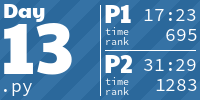
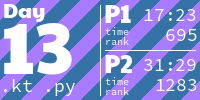
Add day 13

diff --git a/2022/13/13.kt b/2022/13/13.kt
@@ -1,0 +1,45 @@
+fun String.parseLists(): Any {
+    val stack: MutableList<MutableList<Any>> = mutableListOf(mutableListOf())
+    this.replace("]", ",}").replace("[", "{,").replace(",,", ",").split(",").forEach {
+        when (it) {
+            "{" -> { val m: MutableList<Any> = mutableListOf(); stack.last().add(m); stack.add(m) }
+            "}" -> stack.removeLast()
+            else -> stack.last().add(it.toInt())
+        }
+    }
+    return stack[0][0]
+}
+
+fun cmp(a: Any, b: Any): Int {
+    if (a is Int && b is Int)
+        return when { a < b -> -1; a > b -> 1; else -> 0 }
+    val aList = if (a is MutableList<*>) a else mutableListOf(a)
+    val bList = if (b is MutableList<*>) b else mutableListOf(b)
+    for ((u, v) in aList zip bList) 
+        if (cmp(u!!, v!!) != 0)
+            return cmp(u, v)
+    return cmp(aList.size, bList.size)
+}
+
+fun main() {
+    var lists = generateSequence(::readlnOrNull)
+        .filter { !it.isEmpty() }
+        .map { it.parseLists() }
+        .toMutableList()
+
+    lists
+        .chunked(2)
+        .withIndex()
+        .filter { (_, pair) -> cmp(pair[0], pair[1]) <= 0 }
+        .sumOf { (i, _) -> i+1 }
+        .also(::println)
+
+    val distress = listOf(listOf(listOf(2)), listOf(listOf(6)))
+    lists
+        .also { it.addAll(distress) }
+        .sortedWith(::cmp)
+        .withIndex()
+        .filter { it.value in distress }
+        .fold(1) { acc, (i, _) -> (i+1) * acc }
+        .also(::println)
+}

diff --git a/README.md b/README.md
@@ -42,7 +42,7 @@
 <a href="2022/12/12.kt">
   <img src="Media/2022/12.png" width="161px">
 </a>
-<a href="2022/13/13.py">
+<a href="2022/13/13.kt">
   <img src="Media/2022/13.png" width="161px">
 </a>
 <h1 align="center">
